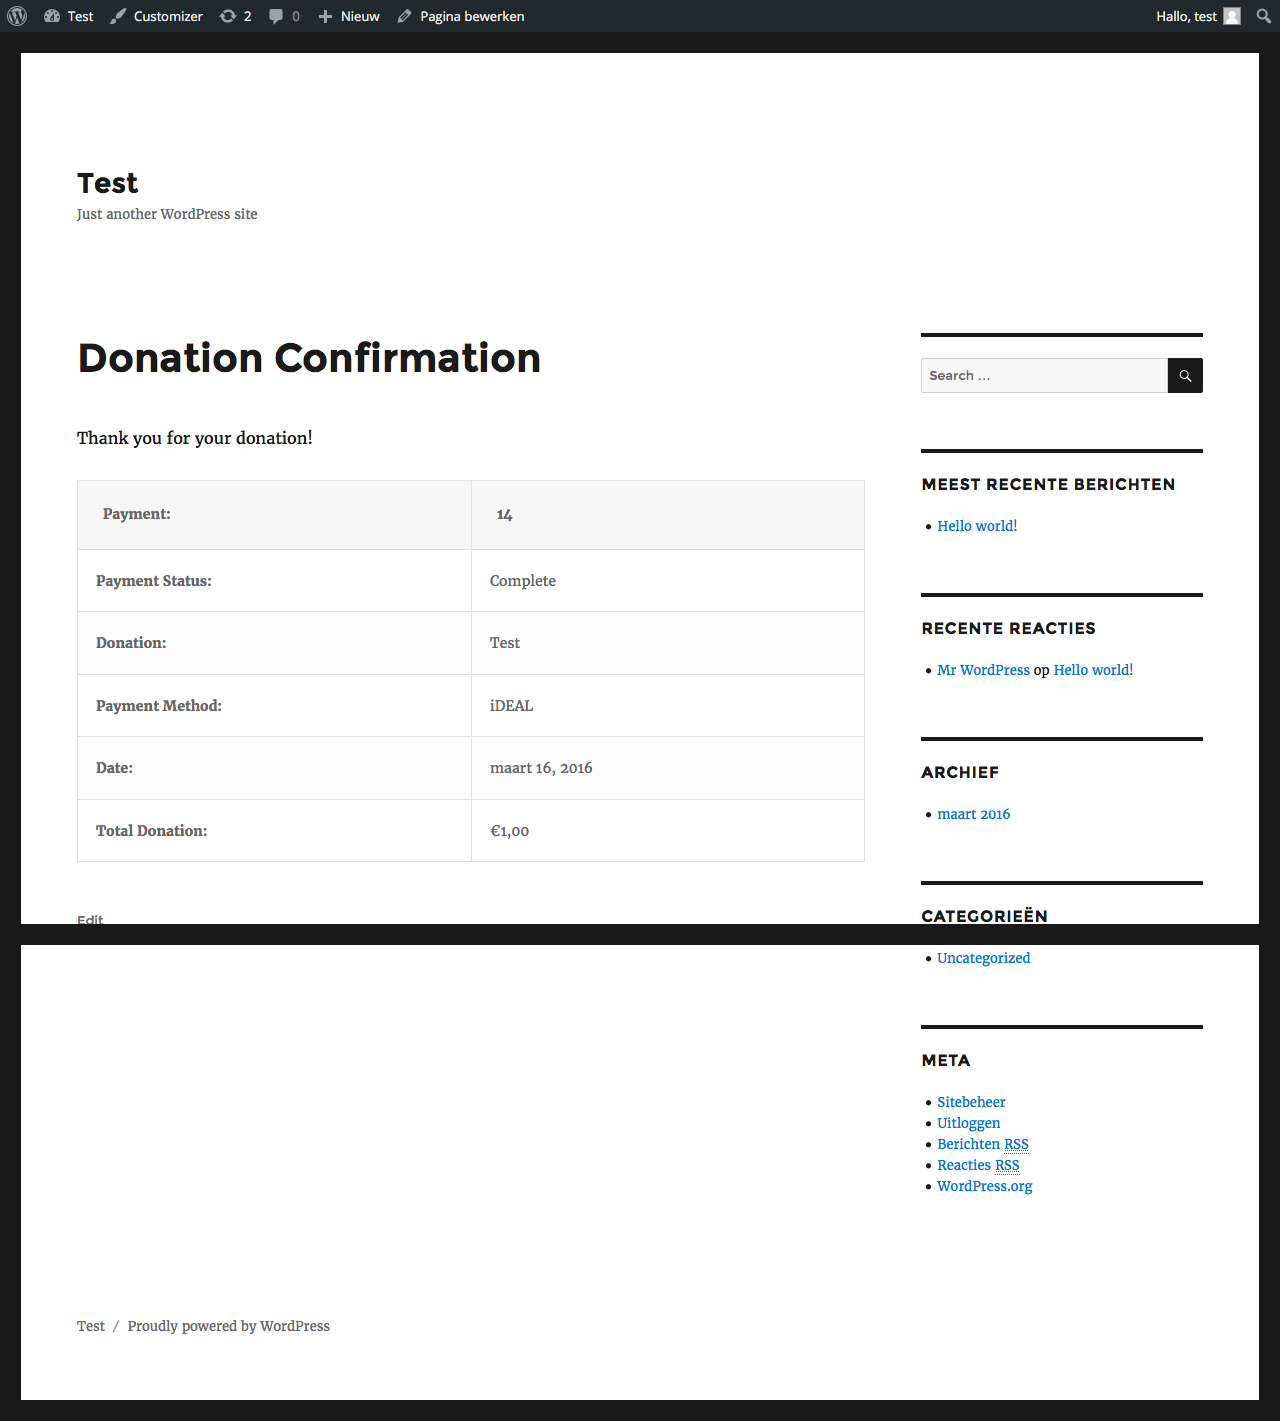
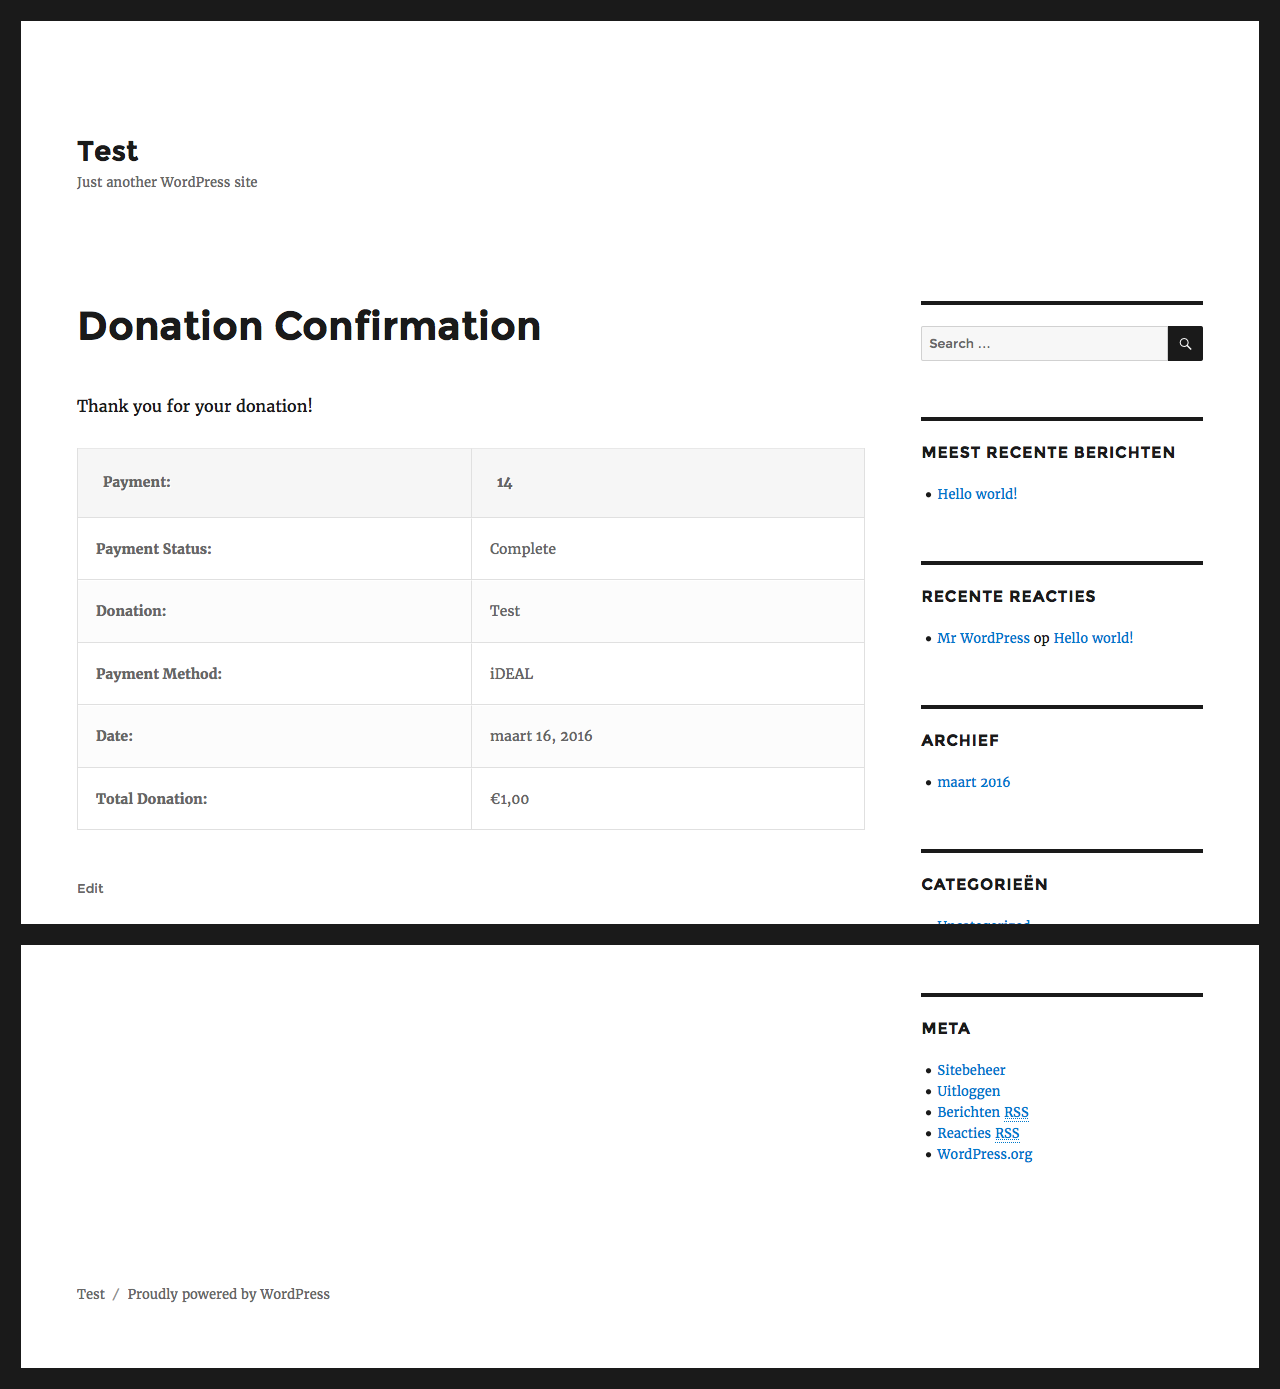
Improved some of the screenshots.

diff --git a/tests/GiveTest.php b/tests/GiveTest.php
@@ -75,6 +75,8 @@ class Pronamic_WP_Pay_TestSuite_GiveTest extends Pronamic_WP_Pay_TestSuite_TestC
 
 	public function give_gateway_settings() {
 		$this->webDriver->get( 'http://test.dev/wp-admin/edit.php?post_type=give_forms&page=give-settings&tab=gateways' );
+
+		$this->take_screenshot( 'give-gateway-settings' );
 		
 		$this->webDriver->findElement( WebDriverBy::id( 'test_mode' ) )->click();
 
@@ -82,8 +84,6 @@ class Pronamic_WP_Pay_TestSuite_GiveTest extends Pronamic_WP_Pay_TestSuite_TestC
 
 		$select = new WebDriverSelect( $this->webDriver->findElement( WebDriverBy::id( 'give_pronamic_pay_ideal_configuration' ) ) );
 		$select->selectByValue( $this->gateway_id );
-
-		$this->take_screenshot( 'give-gateway-settings' );
 
 		$this->webDriver->findElement( WebDriverBy::cssSelector( '.wrap .button-primary' ) )->click();
 	}

diff --git a/src/TestCase.php b/src/TestCase.php
@@ -82,8 +82,11 @@ class Pronamic_WP_Pay_TestSuite_TestCase extends PHPUnit_Framework_TestCase {
 	 */
 	protected function setUp() {
 		global $helper;
+		global $cli;
 
 		$helper->install_wp();
+
+		$cli->passthru( 'wp user meta update test show_admin_bar_front 0' );
 
 		// @see https://github.com/facebook/php-webdriver/wiki/Example-command-reference
 		// $this->webDriver->manage()->window()->maximize();
